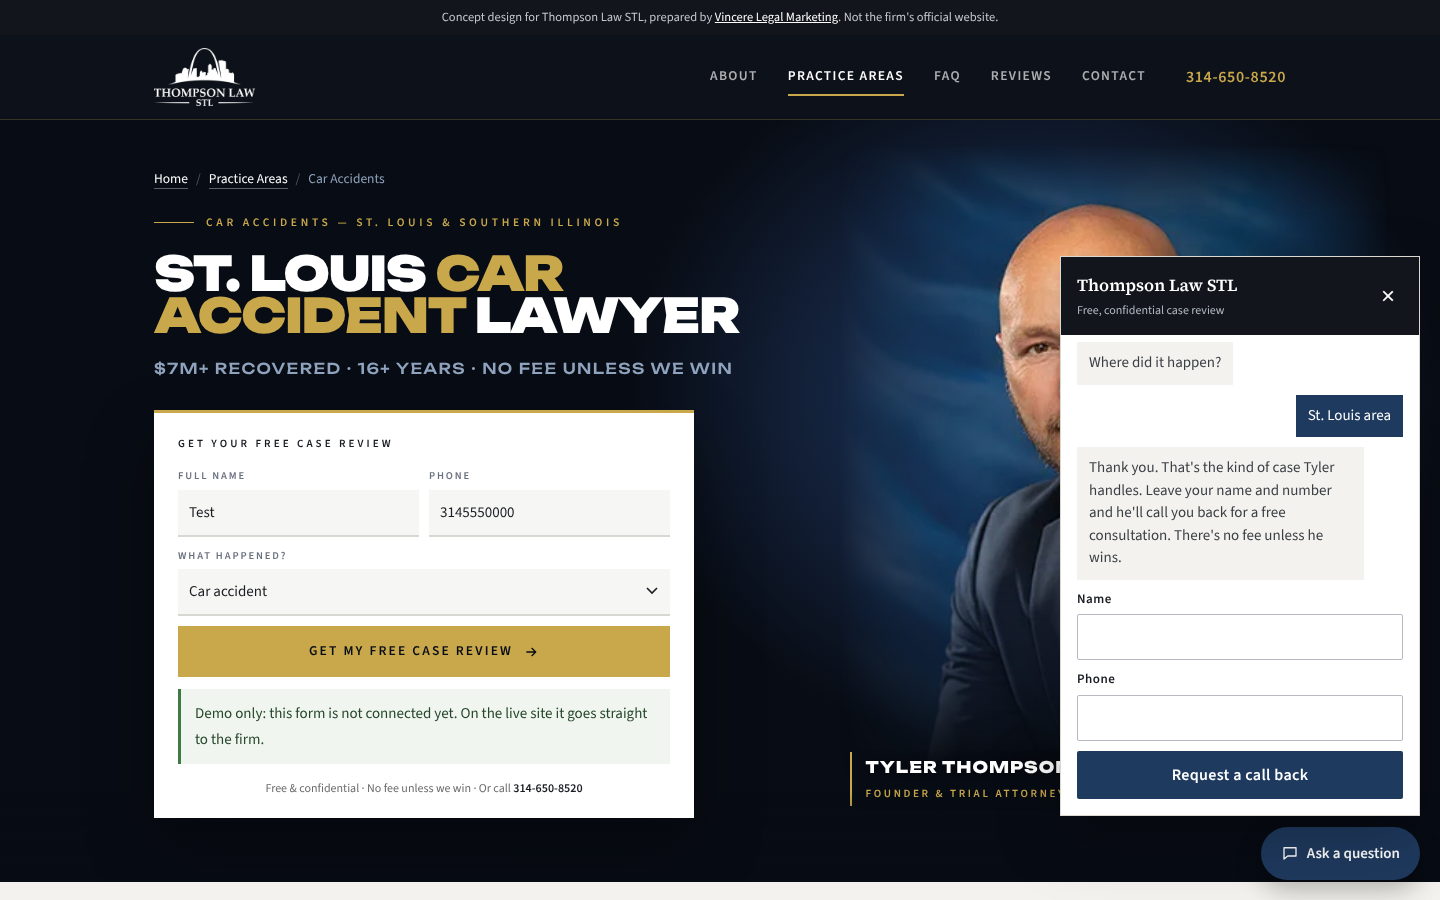
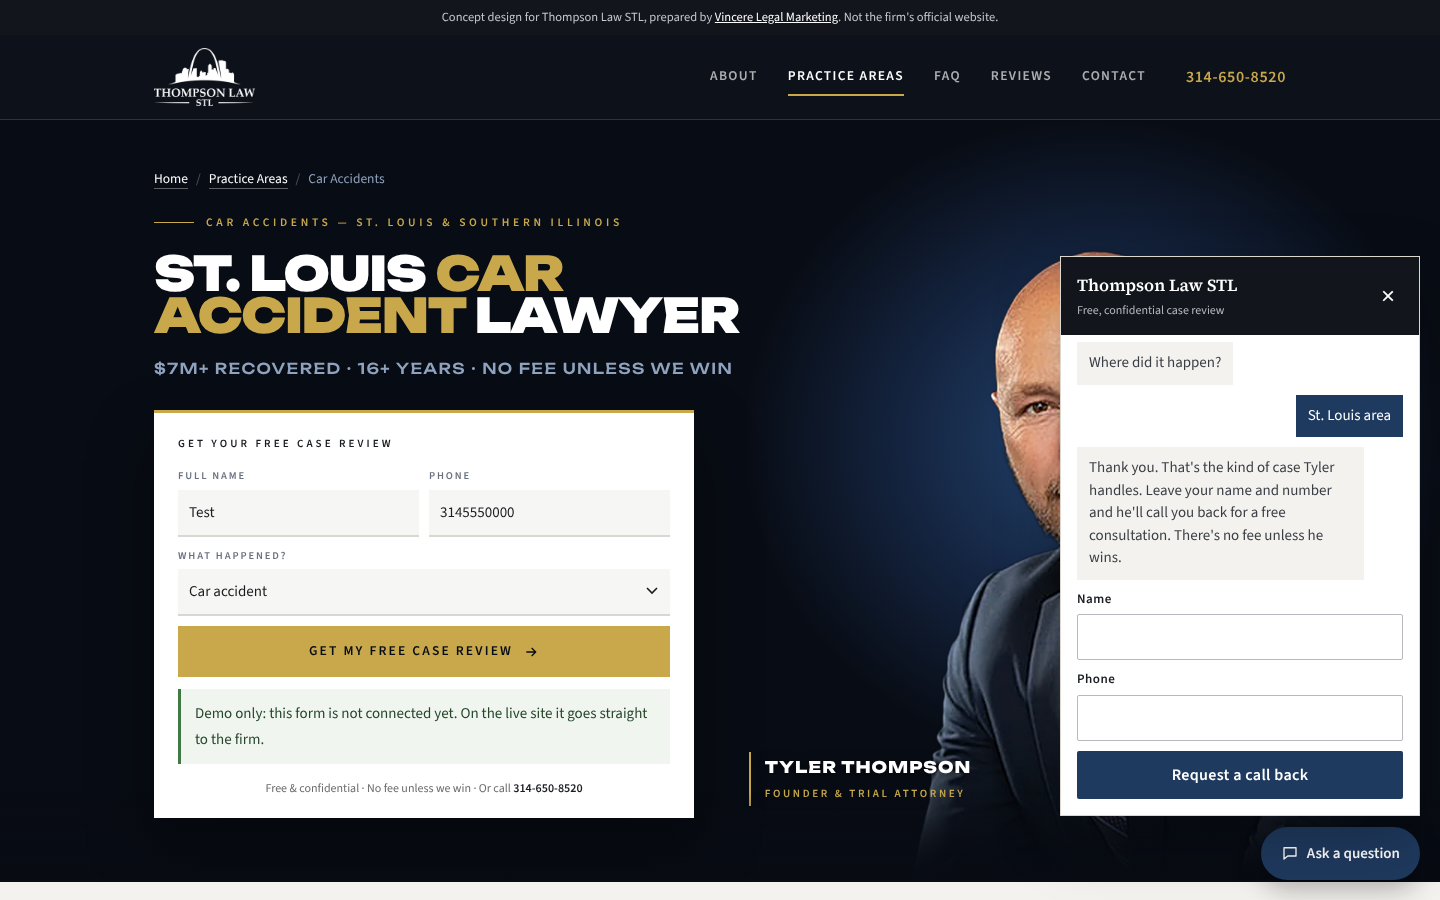
Use a cutout of Tyler's headshot in the hero
The studio backdrop is removed so he stands on the dark hero like the
Kessler portrait, anchored to the bottom with his head beside the
headline. A 2x sharpened WebP keeps him crisp at hero size, with the
original-size PNG as a fallback.

Claude-Session: https://claude.ai/code/session_01D1pX4b9j6HsaBZ5acdKKPt

Changed region(s): [[0.5, 0.1556, 0.9375, 0.9022]]

diff --git a/assets/css/site.css b/assets/css/site.css
@@ -56,7 +56,7 @@ section[id],form[id]{scroll-margin-top:100px}
 .menu-btn{display:none;margin-left:auto;background:none;border:1px solid rgba(255,255,255,.3);color:#fff;padding:9px 14px;font:inherit;font-size:13px;font-weight:600;letter-spacing:.1em;text-transform:uppercase;cursor:pointer}
 
 /* hero (Kessler) */
-.hero{position:relative;overflow:hidden;color:#fff;background:radial-gradient(ellipse 34% 56% at 72% 36%,#1f3c63 0%,#13213a 46%,var(--black) 84%)}
+.hero{position:relative;overflow:hidden;color:#fff;background:radial-gradient(ellipse 30% 52% at 76% 42%,#24456f 0%,#142440 44%,var(--black) 82%)}
 .hero::after{content:"";position:absolute;left:0;right:0;bottom:0;height:90px;z-index:1;background:linear-gradient(180deg,rgba(8,12,20,0),var(--black));pointer-events:none}
 .hero-inner{position:relative;z-index:2;display:grid;grid-template-columns:minmax(0,1fr) minmax(0,.9fr);align-items:center;min-height:min(720px,calc(100vh - 110px))}
 .hero-copy{padding:48px 0 64px}
@@ -81,8 +81,8 @@ section[id],form[id]{scroll-margin-top:100px}
 .hero-form .note a{color:var(--ink);font-weight:600;text-decoration:none;white-space:nowrap}
 .hero-photo{position:absolute;top:0;right:0;bottom:0;width:50%;z-index:1;pointer-events:none}
 .hero-photo picture{display:contents}
-.hero-photo img{position:absolute;top:24px;right:7%;height:min(640px,calc(100% - 24px));width:auto;max-width:none;-webkit-mask-image:linear-gradient(180deg,transparent 0,#000 12%,#000 64%,transparent 100%),linear-gradient(90deg,transparent 0,#000 26%,#000 72%,transparent 100%);-webkit-mask-composite:source-in;mask-image:linear-gradient(180deg,transparent 0,#000 12%,#000 64%,transparent 100%),linear-gradient(90deg,transparent 0,#000 26%,#000 72%,transparent 100%);mask-composite:intersect}
-.hero-name{position:absolute;left:18%;bottom:76px;z-index:2;border-left:2px solid var(--gold);padding:2px 0 2px 14px;text-shadow:0 2px 12px rgba(0,0,0,.6)}
+.hero-photo img{position:absolute;right:max(0px,calc(50vw - 700px));bottom:0;height:min(640px,calc(100% - 52px),46vw);width:auto;max-width:none;-webkit-mask-image:linear-gradient(180deg,#000 74%,transparent 100%),linear-gradient(90deg,#000 84%,transparent 100%);-webkit-mask-composite:source-in;mask-image:linear-gradient(180deg,#000 74%,transparent 100%),linear-gradient(90deg,#000 84%,transparent 100%);mask-composite:intersect}
+.hero-name{position:absolute;left:4%;bottom:76px;z-index:2;border-left:2px solid var(--gold);padding:2px 0 2px 14px;text-shadow:0 2px 12px rgba(0,0,0,.6)}
 .hero-name b{display:block;font-family:var(--display);font-size:16px;font-weight:800;letter-spacing:.06em;text-transform:uppercase;color:#fff}
 .hero-name span{display:block;margin-top:4px;font-size:11px;font-weight:600;letter-spacing:.24em;text-transform:uppercase;color:var(--gold)}
 
@@ -327,8 +327,8 @@ footer address{font-style:normal}
   .nav-open .menu a{padding:14px 0;border-bottom:1px solid #253347;font-size:14px}
   .hero-inner{grid-template-columns:1fr;min-height:0}
   .hero-copy{padding:36px 0 56px}
-  .hero-photo{position:relative;width:auto;height:380px}
-  .hero-photo img{top:0;left:50%;right:auto;transform:translateX(-50%);height:380px;-webkit-mask-image:linear-gradient(180deg,transparent 0,#000 18%,#000 58%,transparent 100%),linear-gradient(90deg,transparent 0,#000 22%,#000 78%,transparent 100%);mask-image:linear-gradient(180deg,transparent 0,#000 18%,#000 58%,transparent 100%),linear-gradient(90deg,transparent 0,#000 22%,#000 78%,transparent 100%)}
+  .hero-photo{position:relative;width:auto;height:380px;margin-top:8px}
+  .hero-photo img{left:50%;right:auto;transform:translateX(-50%);height:360px}
   .hero-name{left:24px;bottom:14px}
   .contact .wrap,.faq .wrap,.pbody .wrap{grid-template-columns:1fr;gap:40px}
   .aside{position:static}
@@ -350,7 +350,7 @@ footer address{font-style:normal}
   .hero h1{font-size:40px}
   .hero-pg h1{font-size:33px}
   .proof{font-size:12.5px}
-  .hero-photo{height:300px}
+  .hero-photo{height:310px}
   .hero-photo img{height:300px}
   .hero-name{left:20px;bottom:8px}
   .hero-name b{font-size:14px}

diff --git a/car-accidents.html b/car-accidents.html
@@ -21,7 +21,7 @@
 <link rel="preload" href="assets/fonts/source-serif.woff2" as="font" type="font/woff2" crossorigin>
 <link rel="preload" href="assets/fonts/source-sans.woff2" as="font" type="font/woff2" crossorigin>
 <link rel="preload" href="assets/fonts/unbounded.woff2" as="font" type="font/woff2" crossorigin>
-<link rel="preload" as="image" href="assets/img/tyler-thompson.webp" type="image/webp" fetchpriority="high">
+<link rel="preload" as="image" href="assets/img/tyler-cutout.webp" type="image/webp" fetchpriority="high">
 <link rel="stylesheet" href="assets/css/site.css">
 <script type="application/ld+json">
 {
@@ -122,7 +122,7 @@
 
 <section class="hero hero-pg" aria-labelledby="hero-h">
   <div class="hero-photo">
-    <picture><source type="image/webp" srcset="assets/img/tyler-thompson.webp"><img src="assets/img/tyler-thompson.jpg" width="400" height="465" alt="Tyler Thompson, founder of Thompson Law STL" fetchpriority="high" decoding="async"></picture>
+    <picture><source type="image/webp" srcset="assets/img/tyler-cutout.webp"><img src="assets/img/tyler-cutout.png" width="400" height="427" alt="Tyler Thompson, founder of Thompson Law STL" fetchpriority="high" decoding="async"></picture>
     <div class="hero-name"><b>Tyler Thompson</b><span>Founder &amp; Trial Attorney</span></div>
   </div>
   <div class="wrap hero-inner">

diff --git a/dog-bites.html b/dog-bites.html
@@ -21,7 +21,7 @@
 <link rel="preload" href="assets/fonts/source-serif.woff2" as="font" type="font/woff2" crossorigin>
 <link rel="preload" href="assets/fonts/source-sans.woff2" as="font" type="font/woff2" crossorigin>
 <link rel="preload" href="assets/fonts/unbounded.woff2" as="font" type="font/woff2" crossorigin>
-<link rel="preload" as="image" href="assets/img/tyler-thompson.webp" type="image/webp" fetchpriority="high">
+<link rel="preload" as="image" href="assets/img/tyler-cutout.webp" type="image/webp" fetchpriority="high">
 <link rel="stylesheet" href="assets/css/site.css">
 <script type="application/ld+json">
 {
@@ -122,7 +122,7 @@
 
 <section class="hero hero-pg" aria-labelledby="hero-h">
   <div class="hero-photo">
-    <picture><source type="image/webp" srcset="assets/img/tyler-thompson.webp"><img src="assets/img/tyler-thompson.jpg" width="400" height="465" alt="Tyler Thompson, founder of Thompson Law STL" fetchpriority="high" decoding="async"></picture>
+    <picture><source type="image/webp" srcset="assets/img/tyler-cutout.webp"><img src="assets/img/tyler-cutout.png" width="400" height="427" alt="Tyler Thompson, founder of Thompson Law STL" fetchpriority="high" decoding="async"></picture>
     <div class="hero-name"><b>Tyler Thompson</b><span>Founder &amp; Trial Attorney</span></div>
   </div>
   <div class="wrap hero-inner">

diff --git a/medical-malpractice.html b/medical-malpractice.html
@@ -21,7 +21,7 @@
 <link rel="preload" href="assets/fonts/source-serif.woff2" as="font" type="font/woff2" crossorigin>
 <link rel="preload" href="assets/fonts/source-sans.woff2" as="font" type="font/woff2" crossorigin>
 <link rel="preload" href="assets/fonts/unbounded.woff2" as="font" type="font/woff2" crossorigin>
-<link rel="preload" as="image" href="assets/img/tyler-thompson.webp" type="image/webp" fetchpriority="high">
+<link rel="preload" as="image" href="assets/img/tyler-cutout.webp" type="image/webp" fetchpriority="high">
 <link rel="stylesheet" href="assets/css/site.css">
 <script type="application/ld+json">
 {
@@ -122,7 +122,7 @@
 
 <section class="hero hero-pg" aria-labelledby="hero-h">
   <div class="hero-photo">
-    <picture><source type="image/webp" srcset="assets/img/tyler-thompson.webp"><img src="assets/img/tyler-thompson.jpg" width="400" height="465" alt="Tyler Thompson, founder of Thompson Law STL" fetchpriority="high" decoding="async"></picture>
+    <picture><source type="image/webp" srcset="assets/img/tyler-cutout.webp"><img src="assets/img/tyler-cutout.png" width="400" height="427" alt="Tyler Thompson, founder of Thompson Law STL" fetchpriority="high" decoding="async"></picture>
     <div class="hero-name"><b>Tyler Thompson</b><span>Founder &amp; Trial Attorney</span></div>
   </div>
   <div class="wrap hero-inner">

diff --git a/motorcycle-accidents.html b/motorcycle-accidents.html
@@ -21,7 +21,7 @@
 <link rel="preload" href="assets/fonts/source-serif.woff2" as="font" type="font/woff2" crossorigin>
 <link rel="preload" href="assets/fonts/source-sans.woff2" as="font" type="font/woff2" crossorigin>
 <link rel="preload" href="assets/fonts/unbounded.woff2" as="font" type="font/woff2" crossorigin>
-<link rel="preload" as="image" href="assets/img/tyler-thompson.webp" type="image/webp" fetchpriority="high">
+<link rel="preload" as="image" href="assets/img/tyler-cutout.webp" type="image/webp" fetchpriority="high">
 <link rel="stylesheet" href="assets/css/site.css">
 <script type="application/ld+json">
 {
@@ -122,7 +122,7 @@
 
 <section class="hero hero-pg" aria-labelledby="hero-h">
   <div class="hero-photo">
-    <picture><source type="image/webp" srcset="assets/img/tyler-thompson.webp"><img src="assets/img/tyler-thompson.jpg" width="400" height="465" alt="Tyler Thompson, founder of Thompson Law STL" fetchpriority="high" decoding="async"></picture>
+    <picture><source type="image/webp" srcset="assets/img/tyler-cutout.webp"><img src="assets/img/tyler-cutout.png" width="400" height="427" alt="Tyler Thompson, founder of Thompson Law STL" fetchpriority="high" decoding="async"></picture>
     <div class="hero-name"><b>Tyler Thompson</b><span>Founder &amp; Trial Attorney</span></div>
   </div>
   <div class="wrap hero-inner">

diff --git a/slip-and-fall.html b/slip-and-fall.html
@@ -21,7 +21,7 @@
 <link rel="preload" href="assets/fonts/source-serif.woff2" as="font" type="font/woff2" crossorigin>
 <link rel="preload" href="assets/fonts/source-sans.woff2" as="font" type="font/woff2" crossorigin>
 <link rel="preload" href="assets/fonts/unbounded.woff2" as="font" type="font/woff2" crossorigin>
-<link rel="preload" as="image" href="assets/img/tyler-thompson.webp" type="image/webp" fetchpriority="high">
+<link rel="preload" as="image" href="assets/img/tyler-cutout.webp" type="image/webp" fetchpriority="high">
 <link rel="stylesheet" href="assets/css/site.css">
 <script type="application/ld+json">
 {
@@ -122,7 +122,7 @@
 
 <section class="hero hero-pg" aria-labelledby="hero-h">
   <div class="hero-photo">
-    <picture><source type="image/webp" srcset="assets/img/tyler-thompson.webp"><img src="assets/img/tyler-thompson.jpg" width="400" height="465" alt="Tyler Thompson, founder of Thompson Law STL" fetchpriority="high" decoding="async"></picture>
+    <picture><source type="image/webp" srcset="assets/img/tyler-cutout.webp"><img src="assets/img/tyler-cutout.png" width="400" height="427" alt="Tyler Thompson, founder of Thompson Law STL" fetchpriority="high" decoding="async"></picture>
     <div class="hero-name"><b>Tyler Thompson</b><span>Founder &amp; Trial Attorney</span></div>
   </div>
   <div class="wrap hero-inner">

diff --git a/truck-accidents.html b/truck-accidents.html
@@ -21,7 +21,7 @@
 <link rel="preload" href="assets/fonts/source-serif.woff2" as="font" type="font/woff2" crossorigin>
 <link rel="preload" href="assets/fonts/source-sans.woff2" as="font" type="font/woff2" crossorigin>
 <link rel="preload" href="assets/fonts/unbounded.woff2" as="font" type="font/woff2" crossorigin>
-<link rel="preload" as="image" href="assets/img/tyler-thompson.webp" type="image/webp" fetchpriority="high">
+<link rel="preload" as="image" href="assets/img/tyler-cutout.webp" type="image/webp" fetchpriority="high">
 <link rel="stylesheet" href="assets/css/site.css">
 <script type="application/ld+json">
 {
@@ -122,7 +122,7 @@
 
 <section class="hero hero-pg" aria-labelledby="hero-h">
   <div class="hero-photo">
-    <picture><source type="image/webp" srcset="assets/img/tyler-thompson.webp"><img src="assets/img/tyler-thompson.jpg" width="400" height="465" alt="Tyler Thompson, founder of Thompson Law STL" fetchpriority="high" decoding="async"></picture>
+    <picture><source type="image/webp" srcset="assets/img/tyler-cutout.webp"><img src="assets/img/tyler-cutout.png" width="400" height="427" alt="Tyler Thompson, founder of Thompson Law STL" fetchpriority="high" decoding="async"></picture>
     <div class="hero-name"><b>Tyler Thompson</b><span>Founder &amp; Trial Attorney</span></div>
   </div>
   <div class="wrap hero-inner">

diff --git a/workplace-injuries.html b/workplace-injuries.html
@@ -21,7 +21,7 @@
 <link rel="preload" href="assets/fonts/source-serif.woff2" as="font" type="font/woff2" crossorigin>
 <link rel="preload" href="assets/fonts/source-sans.woff2" as="font" type="font/woff2" crossorigin>
 <link rel="preload" href="assets/fonts/unbounded.woff2" as="font" type="font/woff2" crossorigin>
-<link rel="preload" as="image" href="assets/img/tyler-thompson.webp" type="image/webp" fetchpriority="high">
+<link rel="preload" as="image" href="assets/img/tyler-cutout.webp" type="image/webp" fetchpriority="high">
 <link rel="stylesheet" href="assets/css/site.css">
 <script type="application/ld+json">
 {
@@ -122,7 +122,7 @@
 
 <section class="hero hero-pg" aria-labelledby="hero-h">
   <div class="hero-photo">
-    <picture><source type="image/webp" srcset="assets/img/tyler-thompson.webp"><img src="assets/img/tyler-thompson.jpg" width="400" height="465" alt="Tyler Thompson, founder of Thompson Law STL" fetchpriority="high" decoding="async"></picture>
+    <picture><source type="image/webp" srcset="assets/img/tyler-cutout.webp"><img src="assets/img/tyler-cutout.png" width="400" height="427" alt="Tyler Thompson, founder of Thompson Law STL" fetchpriority="high" decoding="async"></picture>
     <div class="hero-name"><b>Tyler Thompson</b><span>Founder &amp; Trial Attorney</span></div>
   </div>
   <div class="wrap hero-inner">

diff --git a/wrongful-death.html b/wrongful-death.html
@@ -21,7 +21,7 @@
 <link rel="preload" href="assets/fonts/source-serif.woff2" as="font" type="font/woff2" crossorigin>
 <link rel="preload" href="assets/fonts/source-sans.woff2" as="font" type="font/woff2" crossorigin>
 <link rel="preload" href="assets/fonts/unbounded.woff2" as="font" type="font/woff2" crossorigin>
-<link rel="preload" as="image" href="assets/img/tyler-thompson.webp" type="image/webp" fetchpriority="high">
+<link rel="preload" as="image" href="assets/img/tyler-cutout.webp" type="image/webp" fetchpriority="high">
 <link rel="stylesheet" href="assets/css/site.css">
 <script type="application/ld+json">
 {
@@ -122,7 +122,7 @@
 
 <section class="hero hero-pg" aria-labelledby="hero-h">
   <div class="hero-photo">
-    <picture><source type="image/webp" srcset="assets/img/tyler-thompson.webp"><img src="assets/img/tyler-thompson.jpg" width="400" height="465" alt="Tyler Thompson, founder of Thompson Law STL" fetchpriority="high" decoding="async"></picture>
+    <picture><source type="image/webp" srcset="assets/img/tyler-cutout.webp"><img src="assets/img/tyler-cutout.png" width="400" height="427" alt="Tyler Thompson, founder of Thompson Law STL" fetchpriority="high" decoding="async"></picture>
     <div class="hero-name"><b>Tyler Thompson</b><span>Founder &amp; Trial Attorney</span></div>
   </div>
   <div class="wrap hero-inner">

diff --git a/index.html b/index.html
@@ -21,7 +21,7 @@
 <link rel="preload" href="assets/fonts/source-serif.woff2" as="font" type="font/woff2" crossorigin>
 <link rel="preload" href="assets/fonts/source-sans.woff2" as="font" type="font/woff2" crossorigin>
 <link rel="preload" href="assets/fonts/unbounded.woff2" as="font" type="font/woff2" crossorigin>
-<link rel="preload" as="image" href="assets/img/tyler-thompson.webp" type="image/webp" fetchpriority="high">
+<link rel="preload" as="image" href="assets/img/tyler-cutout.webp" type="image/webp" fetchpriority="high">
 <link rel="stylesheet" href="assets/css/site.css">
 <script type="application/ld+json">
 {
@@ -182,7 +182,7 @@
 
 <section class="hero" aria-labelledby="hero-h">
   <div class="hero-photo">
-    <picture><source type="image/webp" srcset="assets/img/tyler-thompson.webp"><img src="assets/img/tyler-thompson.jpg" width="400" height="465" alt="Tyler Thompson, founder of Thompson Law STL" fetchpriority="high" decoding="async"></picture>
+    <picture><source type="image/webp" srcset="assets/img/tyler-cutout.webp"><img src="assets/img/tyler-cutout.png" width="400" height="427" alt="Tyler Thompson, founder of Thompson Law STL" fetchpriority="high" decoding="async"></picture>
     <div class="hero-name"><b>Tyler Thompson</b><span>Founder &amp; Trial Attorney</span></div>
   </div>
   <div class="wrap hero-inner">
